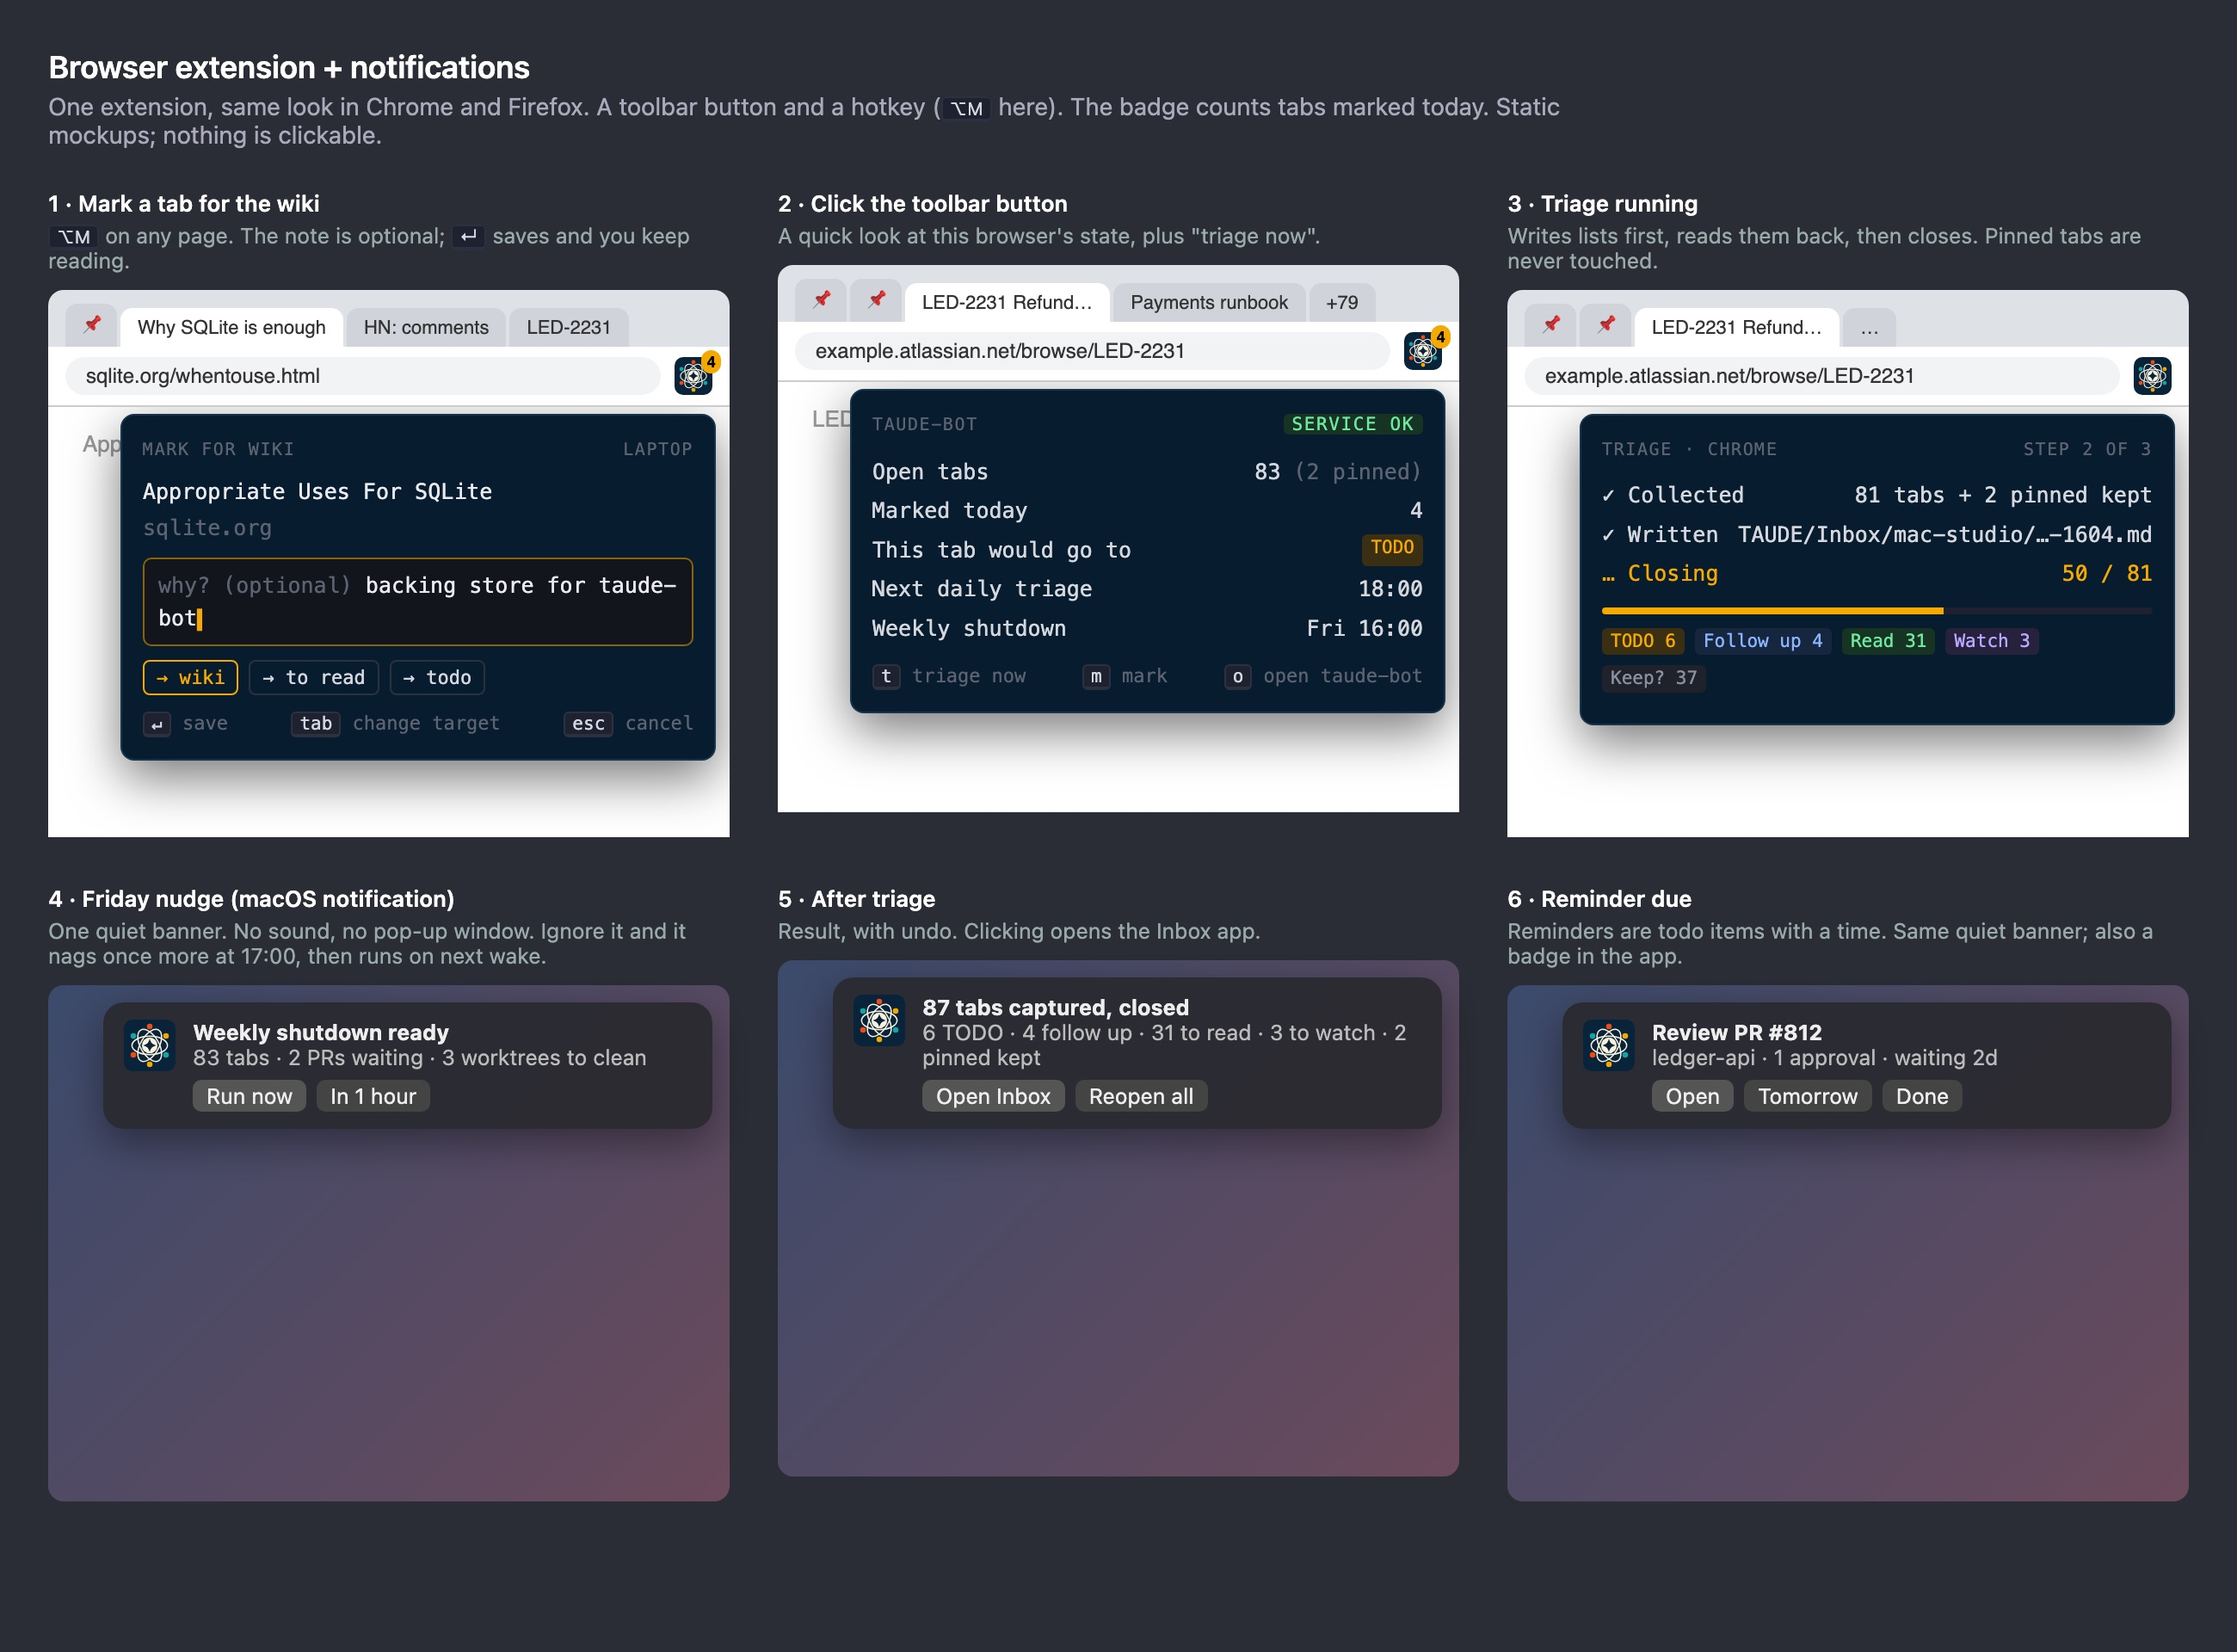
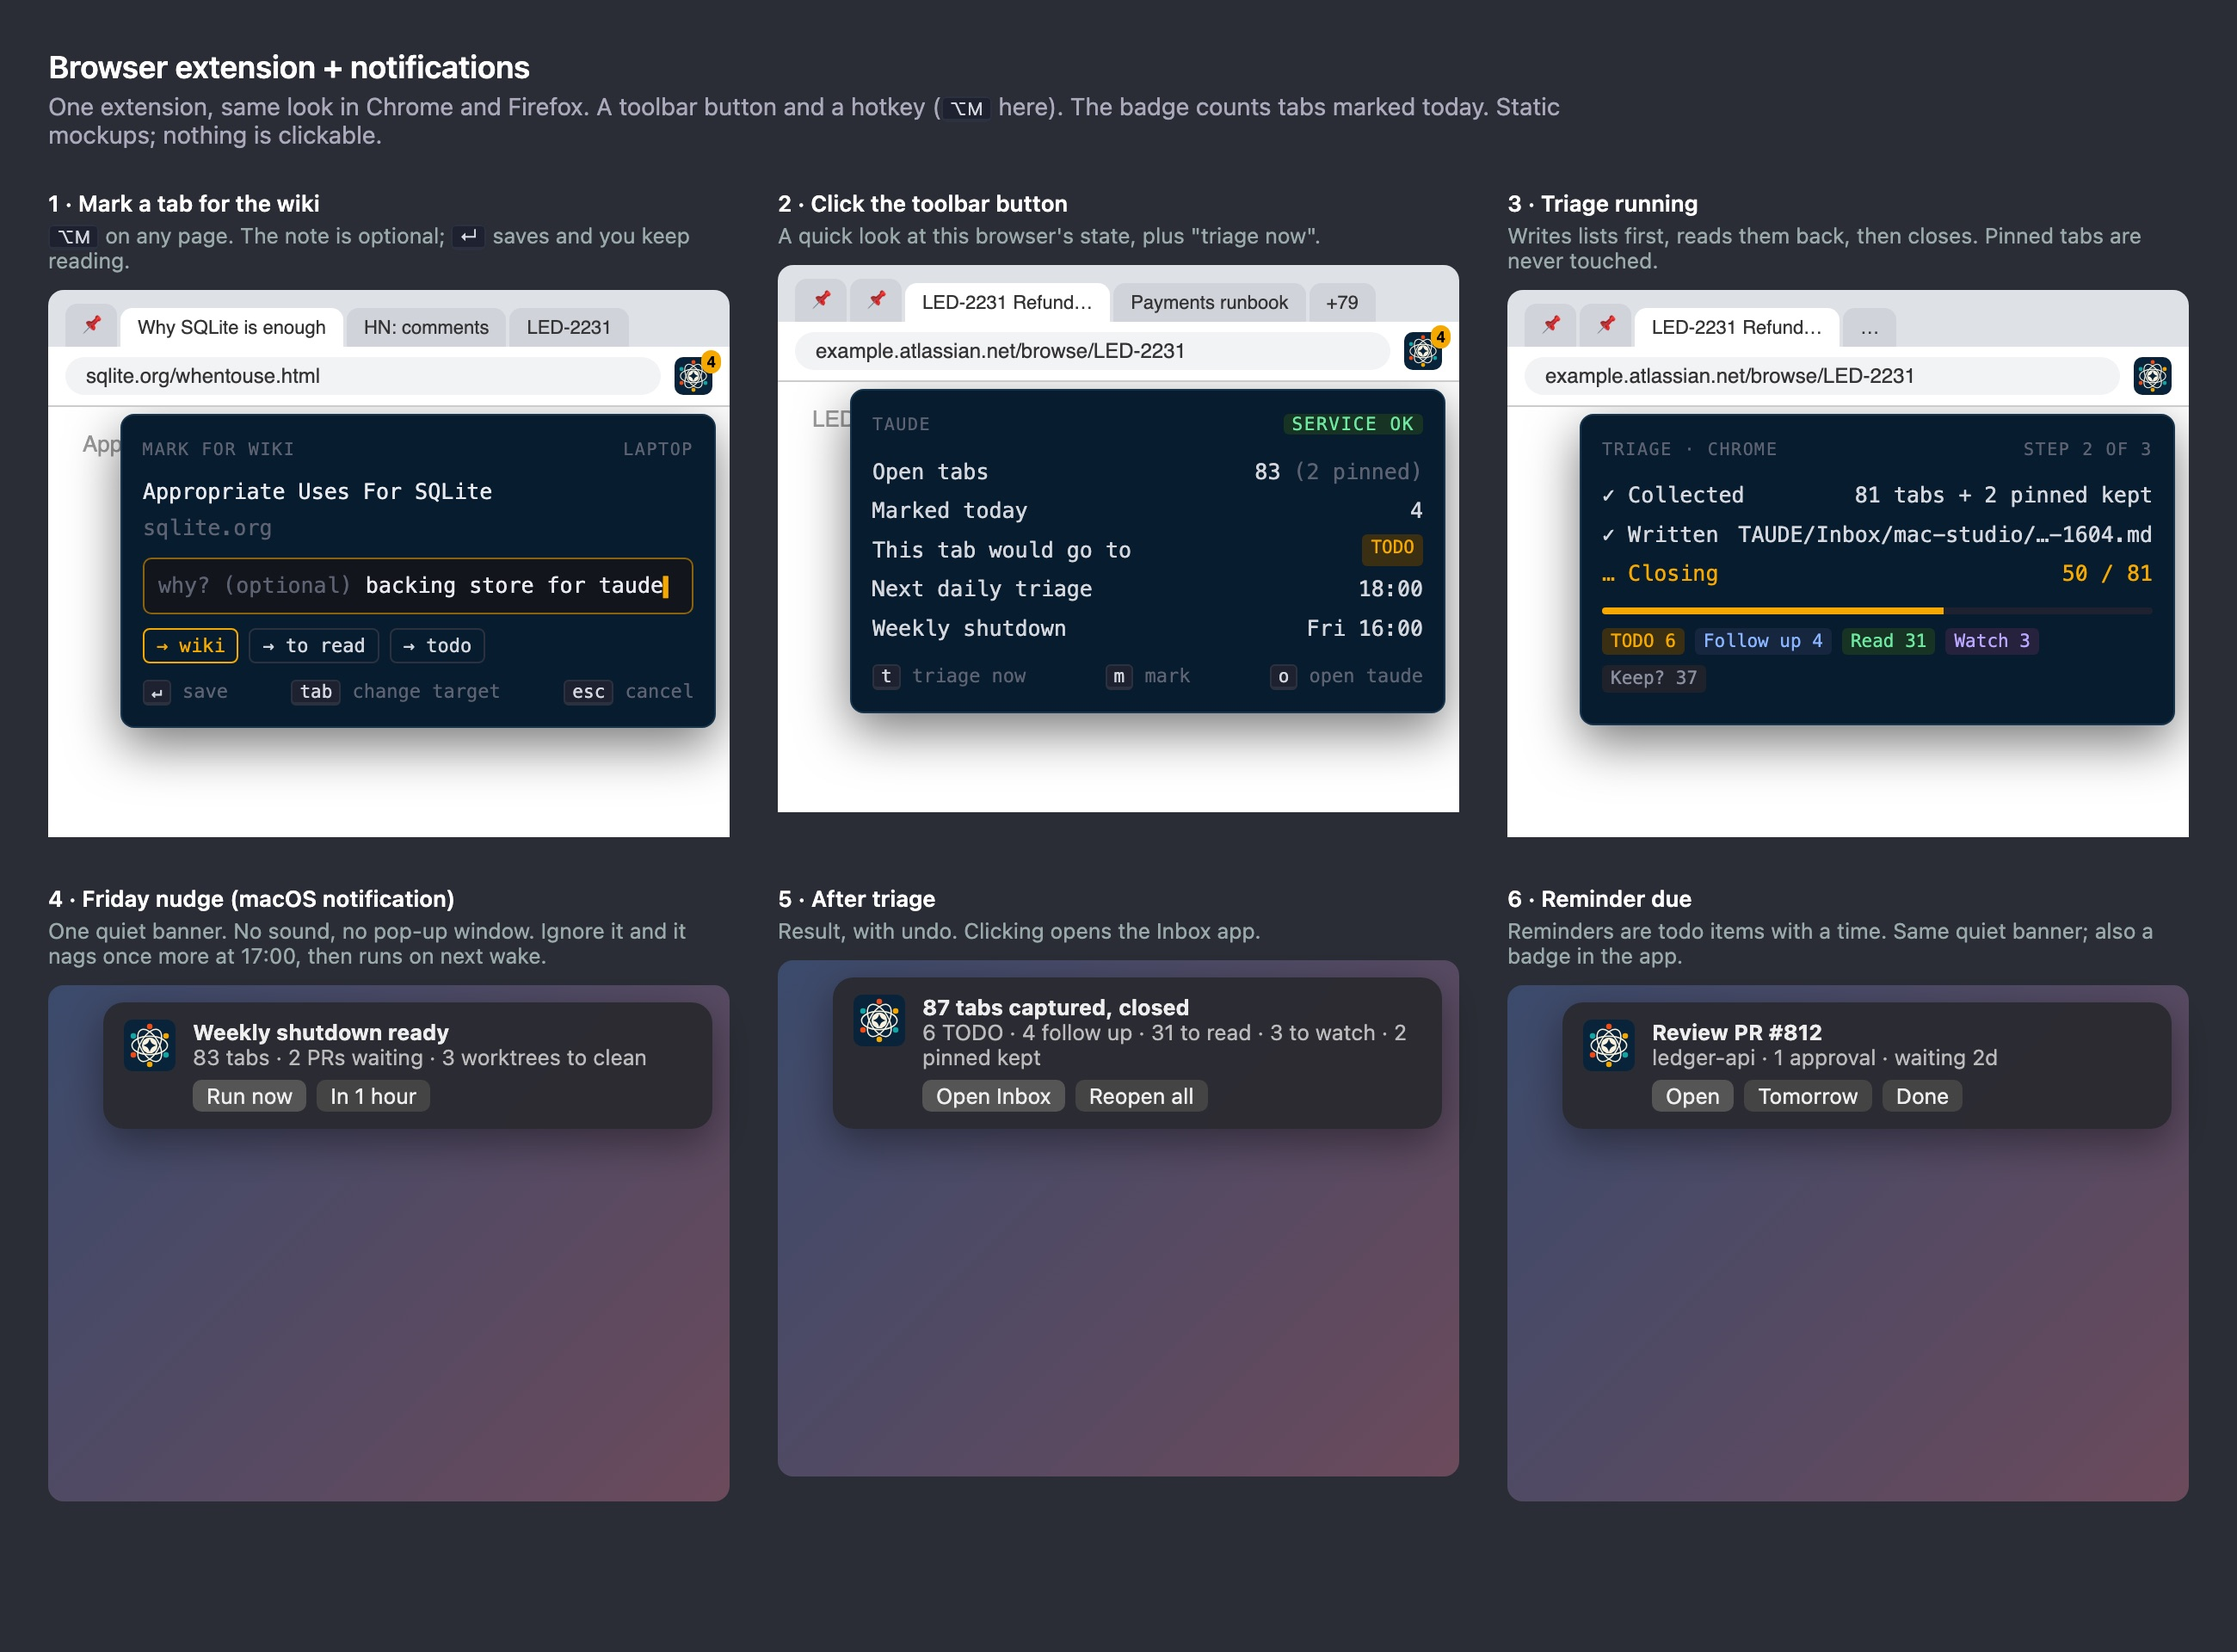
Product page: rename taude-bot to taude

diff --git a/static/product/index.html b/static/product/index.html
@@ -3,9 +3,9 @@
 <head>
 <meta charset="utf-8">
 <meta name="viewport" content="width=device-width, initial-scale=1">
-<title>taude-bot: mission control for the work you don't remember doing</title>
-<meta name="description" content="taude-bot keeps track of AI coding sessions, browser tabs and routine agent workflows across your machines, in plain markdown, driven from the keyboard.">
-<meta property="og:title" content="taude-bot">
+<title>taude: mission control for the work you don't remember doing</title>
+<meta name="description" content="taude keeps track of AI coding sessions, browser tabs and routine agent workflows across your machines, in plain markdown, driven from the keyboard.">
+<meta property="og:title" content="taude">
 <meta property="og:description" content="Mission control for the work you don't remember doing.">
 <meta property="og:image" content="https://taude.xyz/product/img/work.jpg">
 <link rel="icon" href="img/taude-classic-dark.svg" type="image/svg+xml">
@@ -122,14 +122,14 @@ footer .mark{font-size:18px;margin-bottom:14px}
 <header class="hero">
   <div class="wrap">
     <div class="bar">
-      <a class="mark" href="/product/"><img src="img/taude-classic-dark.svg" alt="">taude-bot</a>
+      <a class="mark" href="/product/"><img src="img/taude-classic-dark.svg" alt="">taude</a>
       <nav aria-label="Sections"><a href="#sessions">Sessions</a><a href="#tabs">Tabs</a><a href="#workflows">Workflows</a><a href="#files">Files</a><a href="#roadmap">Roadmap</a></nav>
     </div>
 
     <div class="hero-grid">
       <div>
         <h1>Mission control for the work you don't remember doing.</h1>
-        <p class="lede">taude-bot keeps track of AI coding sessions, browser tabs and the routine work agents do for you, across every machine you use. It runs on your own computer, writes plain markdown, and stays out of the way.</p>
+        <p class="lede">taude keeps track of AI coding sessions, browser tabs and the routine work agents do for you, across every machine you use. It runs on your own computer, writes plain markdown, and stays out of the way.</p>
         <p class="quip">You stopped typing prompts. The agents didn't stop working. Someone should keep track.</p>
       </div>
       <div class="orbit" aria-hidden="true">
@@ -172,7 +172,7 @@ footer .mark{font-size:18px;margin-bottom:14px}
   <div class="wrap row">
     <div class="text">
       <h2>Know what every session did, and pick up where it stopped.</h2>
-      <p class="prose">Run thirty agent sessions at once and the terminal tabs stop meaning anything. taude-bot keeps the record instead.</p>
+      <p class="prose">Run thirty agent sessions at once and the terminal tabs stop meaning anything. taude keeps the record instead.</p>
       <ul class="list">
         <li class="c-teal"><h3>A wrap-up for every session</h3><p>When a Claude Code, pi or opencode session ends, it records what was built, the artifacts it produced, and what the agent thinks is still left to do.</p></li>
         <li class="c-orange"><h3>Git state at a glance</h3><p>Uncommitted changes, commits not yet pushed, PRs open or waiting to merge, and worktrees that are safe to clean up.</p></li>
@@ -197,7 +197,7 @@ footer .mark{font-size:18px;margin-bottom:14px}
     </figure>
     <div class="text">
       <h2>Close a hundred tabs without losing one.</h2>
-      <p class="prose">Every evening, and every Friday afternoon, taude-bot sweeps your Chrome and Firefox tabs into lists. Then it closes them. Pinned tabs stay put.</p>
+      <p class="prose">Every evening, and every Friday afternoon, taude sweeps your Chrome and Firefox tabs into lists. Then it closes them. Pinned tabs stay put.</p>
       <ul class="list">
         <li class="c-orange"><h3>Sorted by what they ask of you</h3><p>Tickets and pages you were editing become to-dos. Pages you were only reading become follow-ups. Hacker News threads go to reading, story and comments as one item. YouTube goes to watch.</p></li>
         <li class="c-amber"><h3>Nothing closes before it's saved</h3><p>The list is written and read back first. Every sweep keeps a record of what it closed, and one key reopens the lot.</p></li>
@@ -217,7 +217,7 @@ footer .mark{font-size:18px;margin-bottom:14px}
       <ul class="list">
         <li class="c-amber"><h3>Daily and weekly summaries</h3><p>A short note each evening. At the end of the week, a list of only what's still unfinished, and what you accomplished, project by project.</p></li>
         <li class="c-teal"><h3>Shutdowns, archive processing, newsletters</h3><p>Daily and weekly shutdowns, turning your reading into wiki pages, drafting the weekly roundup. Add your own.</p></li>
-        <li class="c-orange"><h3>A review pile for anything public</h3><p>Blog posts, LinkedIn and X drafts wait for your approval. taude-bot suggests them from what you actually shipped.</p></li>
+        <li class="c-orange"><h3>A review pile for anything public</h3><p>Blog posts, LinkedIn and X drafts wait for your approval. taude suggests them from what you actually shipped.</p></li>
         <li class="c-teal"><h3>Quiet reminders</h3><p>Reminders are to-do items with a time. When one comes due you get one small notification, never a window in your way.</p></li>
       </ul>
       <p class="quip">Apparently you built four things on Tuesday. Here's the receipt.</p>
@@ -268,7 +268,7 @@ footer .mark{font-size:18px;margin-bottom:14px}
 <section class="feature" id="roadmap">
   <div class="wrap">
     <h2>Where it stands.</h2>
-    <p class="prose">taude-bot is a personal tool being built in the open with Claude Code. The design and clickable mockups are done; the screenshots on this page come from them. The phases, in order:</p>
+    <p class="prose">taude is a personal tool being built in the open with Claude Code. The design and clickable mockups are done; the screenshots on this page come from them. The phases, in order:</p>
     <ol class="phases">
       <li class="now"><h3>Tab triage, the browser extension, and daily and weekly summaries</h3><p>Being built now.</p></li>
       <li><h3>Session tracking</h3><p>Wrap-ups for every agent session, the project index, and the "what next?" panel.</p></li>
@@ -287,7 +287,7 @@ footer .mark{font-size:18px;margin-bottom:14px}
   <div class="wrap">
     <p class="quip">The productivity tool for people who've outsourced the productivity.</p>
     <a class="mark" href="/"><img src="img/taude-classic-dark.svg" alt="">taude.xyz</a>
-    <p>taude-bot rhymes with Claude. It's built by Todd, mostly by talking to agents, and this page was written with one, as the <a href="/about/">about page</a> promises to say.</p>
+    <p>taude rhymes with Claude. It's built by Todd, mostly by talking to agents, and this page was written with one, as the <a href="/about/">about page</a> promises to say.</p>
   </div>
 </footer>
 
